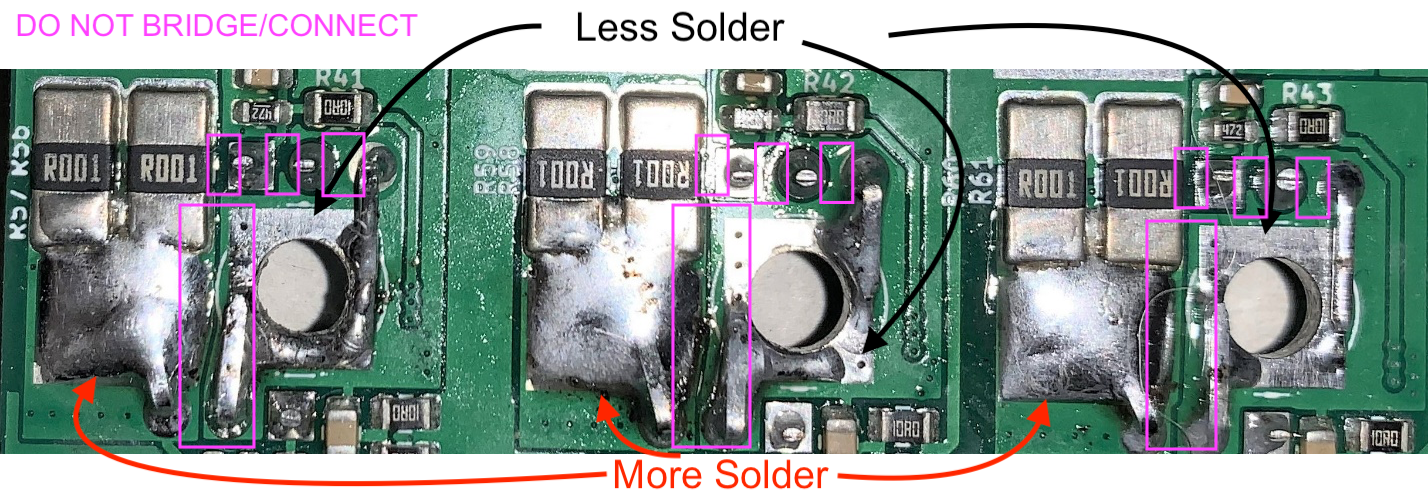
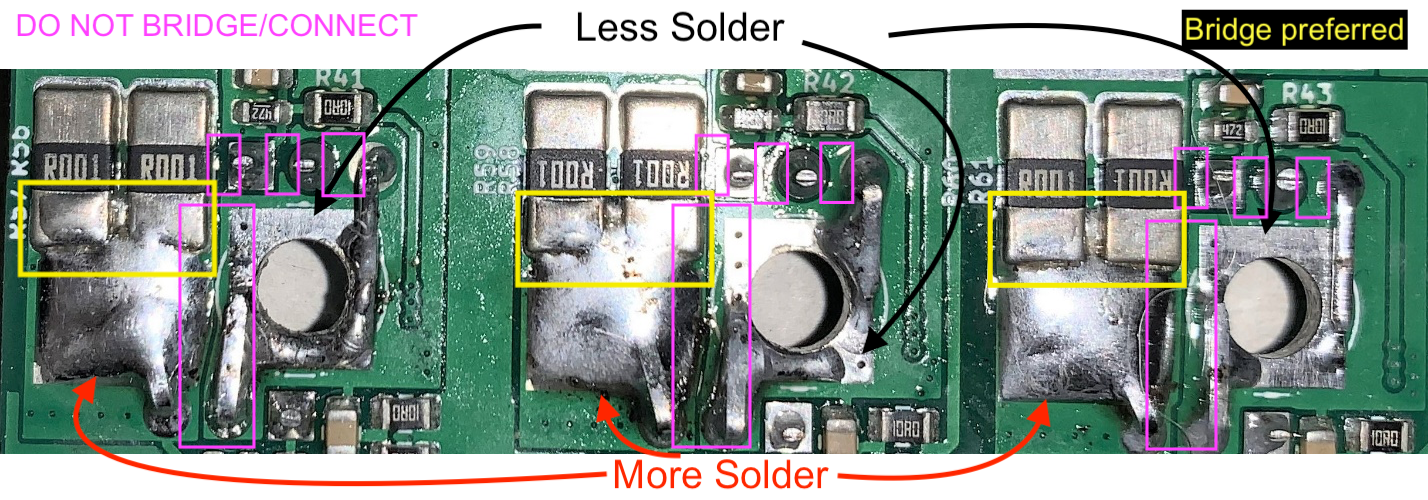
note resistor solder bridges

diff --git a/assembly/readme.md b/assembly/readme.md
@@ -50,11 +50,11 @@ Take a look at the front and back of the SMD assembled images below:
 1. Flip PCB over and bend the relevant MOSFET legs into their positions as shown below. Note that not all legs get bent. Bending the legs like this will add copper to the high-current portions of the PCB which helps handle the current.
     ![](images/fetBendingOnPCB.jpeg)
 
-1. Solder all legs to their respective locations and pads on the top of the PCB. Add excess solder to the leg bent toward the larger current sense resistors. This adds conductive material and thermal mass to help handle the high current.
+1. Solder all legs to their respective locations and pads on the top of the PCB. Add excess solder to the leg bent toward the larger current sense resistors(shown in the picture below in yellow). This adds conductive material and thermal mass to help handle the high current.
 
-    Do not add excess solder to the legs close to the large circular hole. This hole will be where the motor phase cable will be soldered later. Trim excess leg material from legs that were not bent.
+    Do not add excess solder to the legs close to the large circular hole(shown in the picture below in pink). This hole will be where the motor phase cable will be soldered later. Trim excess leg material from legs that were not bent.
 
-    Make sure that no solder bridges exist between legs.
+    Make sure that no solder bridges exist between legs(shown in the picture below in pink).
     ![](images/fetsSoldered.png)
 
 1. Flip PCB over and solder MOSFET legs from the bottom side. Soldering from both top and bottom ensures both good conductivity and mechanical security.
